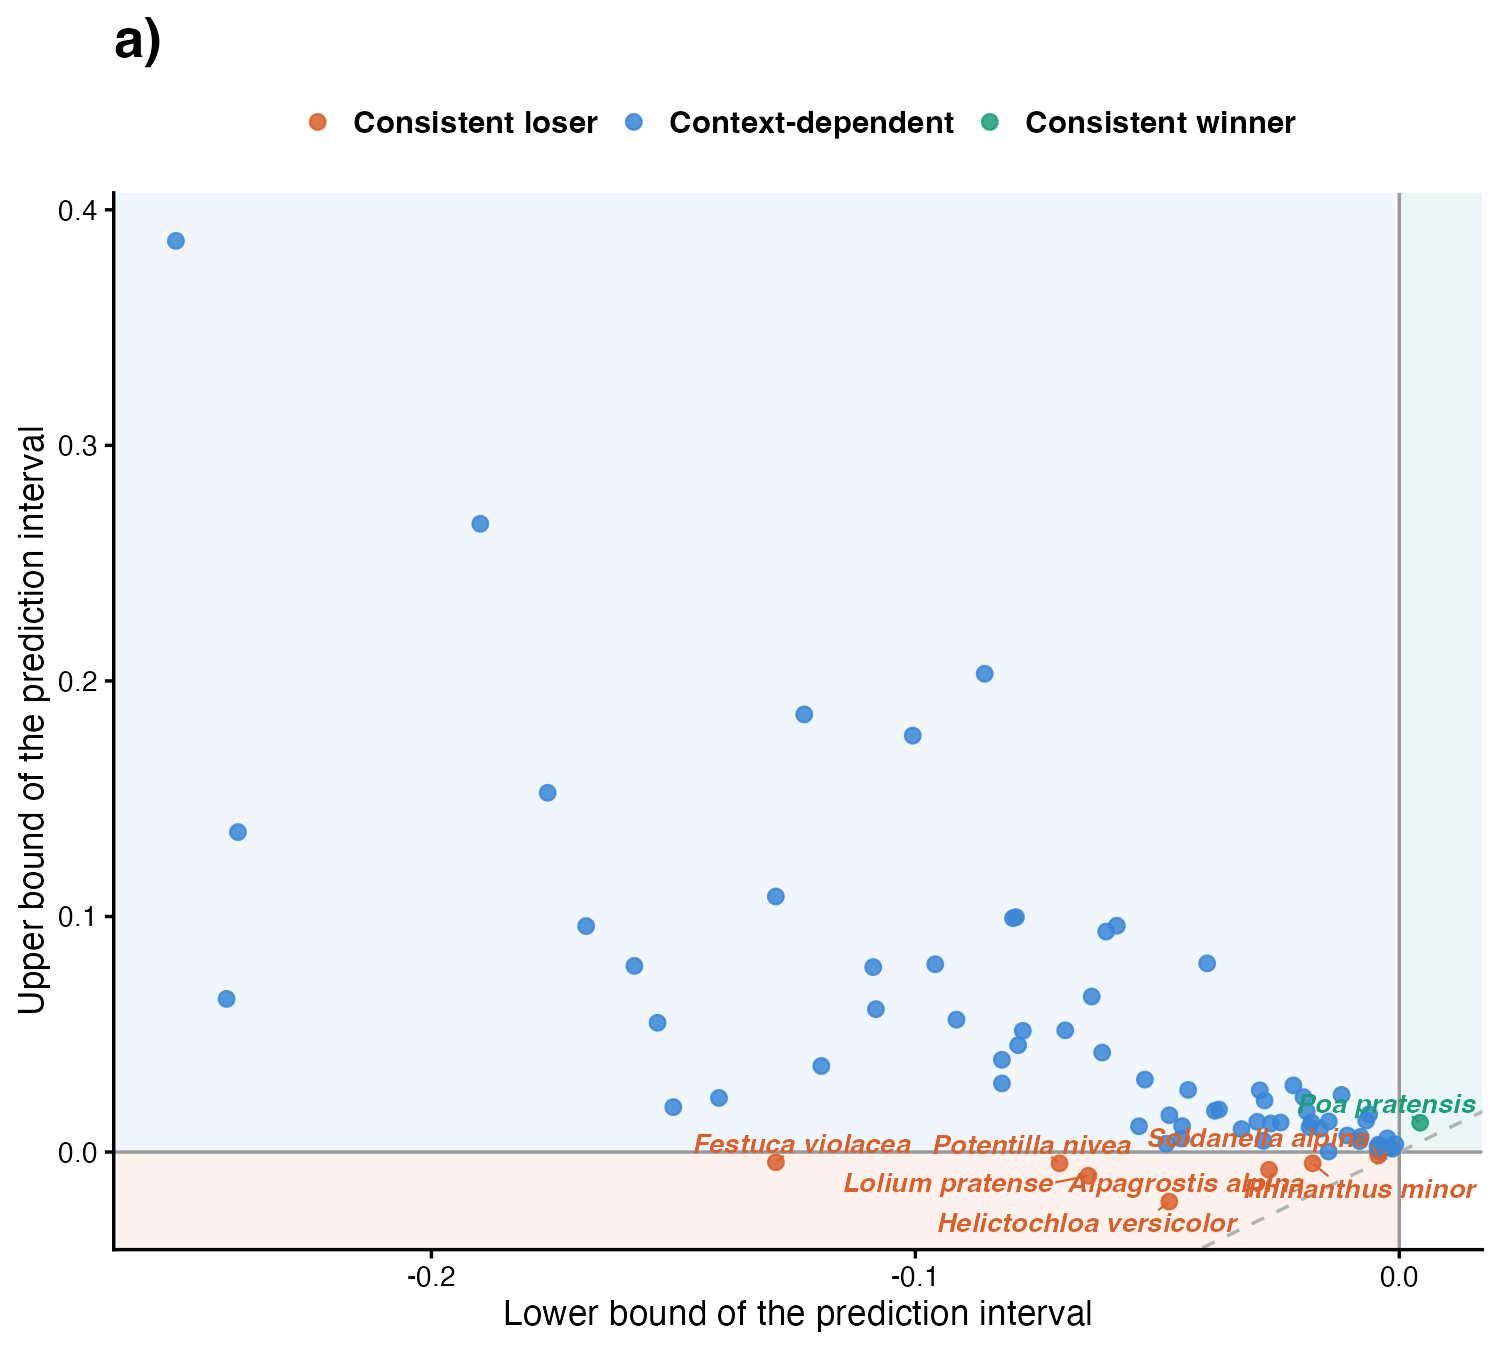
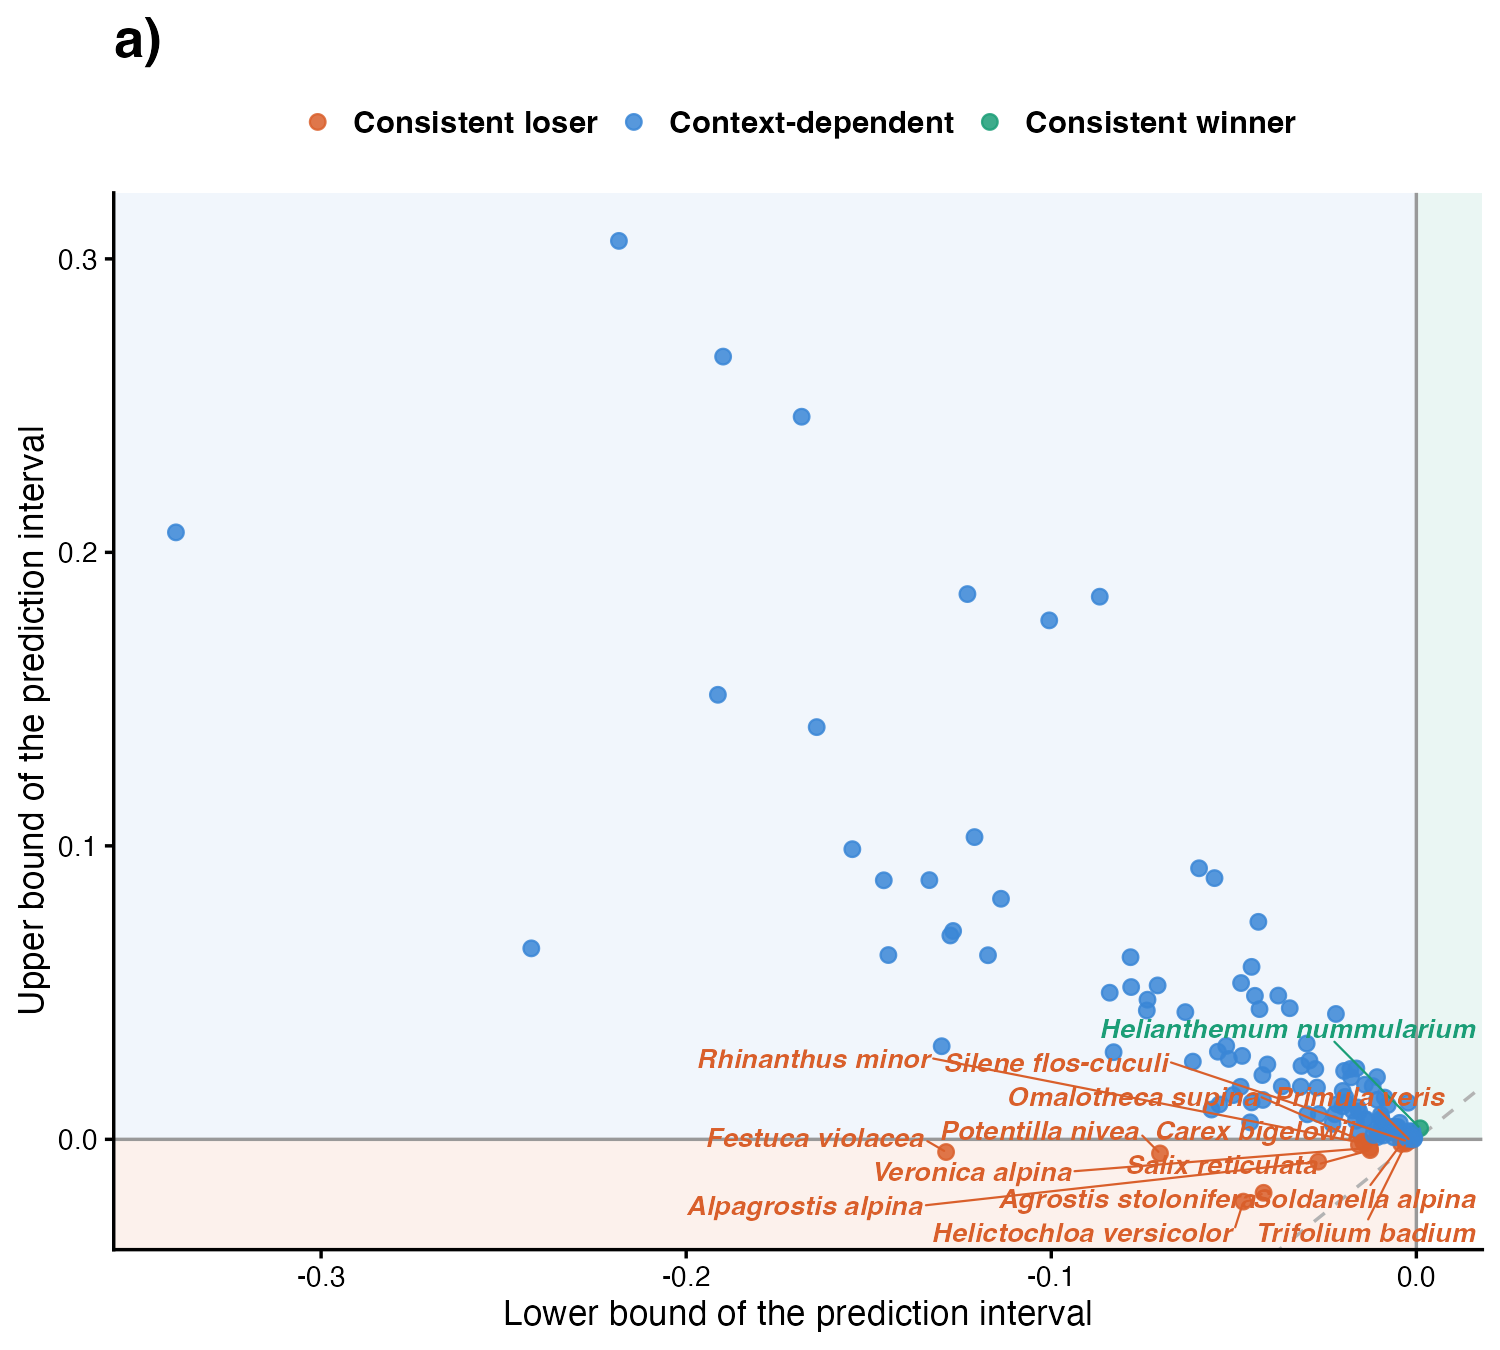
step 04: original pools (137 species, 998 effects): 14 consistent losers, 1 winner, 122 context-dependent; the Step C model fitted as one rma.mv per species (same REML likelihood, seconds); all-years sensitivity dropped (Bills)

diff --git a/reports/04_classification.md b/reports/04_classification.md
@@ -1,13 +1,15 @@
 # Step 04: Consistency across experiments (Step C, residents)
 
-For the 77 resident species found in at least four experiments (552 effects in 39 experiments), one `rma.mv` estimated a pooled losing-winning strength per species and a species-specific among-experiment variance, on the strength from year 3 (step 03b). Each species' prediction interval for a new experiment, which carries both its among-experiment variance and the uncertainty of its pooled strength, places it as a consistent winner (interval above zero), a consistent loser (below zero) or context-dependent (spanning zero). The same model on step 02's all-years strength is the sensitivity run.
+For the 137 resident species found in at least four experiments (998 effects in 43 experiments), one `rma.mv` estimated a pooled losing-winning strength per species and a species-specific among-experiment variance, on the strength from year 3 (step 03b). Each species' prediction interval for a new experiment, which carries both its among-experiment variance and the uncertainty of its pooled strength, places it as a consistent winner (interval above zero), a consistent loser (below zero) or context-dependent (spanning zero).
 
 ## Model as fitted (for reviewers)
 
 ```r
-m_C <- rma.mv(yi = strength, V = strength_se^2, mods = ~0 + species, data = d, random = ~species | effect_id, struct = "DIAG", method = "REML", sparse = TRUE)
-# d: eligible species (>= 4 experiments); mods = ~ 0 + species, random = ~ species | effect_id, struct = "DIAG"
-p <- predict(m_C, newmods = diag(n_species), tau2.levels = species)
+# the model: one fixed mean and one among-experiment variance per species
+# rma.mv(strength, strength_se^2, mods = ~ 0 + species, random = ~ species | effect_id, struct = "DIAG")
+# fitted as one rma.mv per species, which maximises the same REML likelihood (no shared parameter):
+m_s <- rma.mv(yi = strength, V = strength_se^2, data = d, random = ~1 | effect_id, method = "REML")   # d = one species' effects
+p <- predict(m_s)
 # lower, upper = p$pi.lb, p$pi.ub = mu_s -/+ 1.96 * sqrt(tau2_s + se(mu_s)^2)
 ```
 
@@ -15,18 +17,18 @@ p <- predict(m_C, newmods = diag(n_species), tau2.levels = species)
 
 | rule | n |
 | --- | --- |
-| effects (step 03b) | 995 |
-| species with >= 4 experiments | 77 |
-| their effects | 552 |
-| experiments they occur in | 39 |
-| species with tau2_s estimated at about 0 (< 1e-8) | 12 |
+| effects (step 03b) | 1,655 |
+| species with >= 4 experiments | 137 |
+| their effects | 998 |
+| experiments they occur in | 43 |
+| species with tau2_s estimated at about 0 (< 1e-8) | 40 |
 
 ## Classes
 
 | class | species |
 | --- | --- |
-| Consistent loser | 7 |
-| Context-dependent | 69 |
+| Consistent loser | 14 |
+| Context-dependent | 122 |
 | Consistent winner | 1 |
 
 Consistent winners and losers:
@@ -35,24 +37,21 @@ Consistent winners and losers:
 | --- | --- | --- | --- | --- | --- | --- | --- |
 | Festuca violacea | Consistent loser | 4 | -0.0666 | 0.0164 | 0.0272 | -0.1288 | -0.0043 |
 | Potentilla nivea | Consistent loser | 4 | -0.0375 | 0.0094 | 0.0138 | -0.0702 | -0.0048 |
-| Lolium pratense | Consistent loser | 7 | -0.0372 | 0.0138 | 0.0000 | -0.0643 | -0.0101 |
-| Helictochloa versicolor | Consistent loser | 5 | -0.0343 | 0.0058 | 0.0034 | -0.0475 | -0.0210 |
-| Alpagrostis alpina | Consistent loser | 4 | -0.0172 | 0.0042 | 0.0027 | -0.0269 | -0.0075 |
-| Rhinanthus minor | Consistent loser | 6 | -0.0113 | 0.0033 | 0.0000 | -0.0179 | -0.0048 |
-| Soldanella alpina | Consistent loser | 5 | -0.0029 | 0.0007 | 0.0000 | -0.0044 | -0.0015 |
-| Poa pratensis | Consistent winner | 15 | 0.0084 | 0.0021 | 0.0000 | 0.0043 | 0.0124 |
+| Helictochloa versicolor | Consistent loser | 5 | -0.0343 | 0.0058 | 0.0033 | -0.0474 | -0.0212 |
+| Agrostis stolonifera | Consistent loser | 5 | -0.0300 | 0.0060 | 0.0000 | -0.0418 | -0.0182 |
+| Alpagrostis alpina | Consistent loser | 4 | -0.0173 | 0.0042 | 0.0026 | -0.0269 | -0.0076 |
+| Carex bigelowii | Consistent loser | 6 | -0.0088 | 0.0035 | 0.0000 | -0.0157 | -0.0018 |
+| Salix reticulata | Consistent loser | 4 | -0.0082 | 0.0023 | 0.0000 | -0.0127 | -0.0037 |
+| Veronica alpina | Consistent loser | 6 | -0.0078 | 0.0025 | 0.0000 | -0.0128 | -0.0029 |
+| Rhinanthus minor | Consistent loser | 7 | -0.0078 | 0.0028 | 0.0018 | -0.0143 | -0.0013 |
+| Omalotheca supina | Consistent loser | 5 | -0.0077 | 0.0029 | 0.0020 | -0.0146 | -0.0008 |
+| Soldanella alpina | Consistent loser | 5 | -0.0028 | 0.0007 | 0.0000 | -0.0041 | -0.0015 |
+| Trifolium badium | Consistent loser | 4 | -0.0022 | 0.0004 | 0.0000 | -0.0029 | -0.0014 |
+| Silene flos-cuculi | Consistent loser | 5 | -0.0016 | 0.0005 | 0.0000 | -0.0026 | -0.0006 |
+| Primula veris | Consistent loser | 6 | -0.0011 | 0.0003 | 0.0000 | -0.0017 | -0.0004 |
+| Helianthemum nummularium | Consistent winner | 5 | 0.0024 | 0.0007 | 0.0000 | 0.0010 | 0.0038 |
 
-Species with tau2_s at about zero (their interval is the uncertainty of the mean alone): Campanula rotundifolia, Carex myosuroides, Cerastium fontanum, Deschampsia cespitosa, Euphrasia minima, Lolium pratense, Poa pratensis, Ranunculus brotherusii, Rhinanthus minor, Soldanella alpina, Veronica alpina, Veronica fruticans.
-
-## Sensitivity: all-years strength (step 02)
-
-Rows: class on the strength from year 3 (main); columns: class on the all-years strength.
-
-| years >= 3 (main) | Consistent loser | Context-dependent | Consistent winner |
-| --- | --- | --- | --- |
-| Consistent loser | 5 | 2 | 0 |
-| Context-dependent | 3 | 66 | 0 |
-| Consistent winner | 0 | 0 | 1 |
+Species with tau2_s at about zero (their interval is the uncertainty of the mean alone): Agrostis stolonifera, Alchemilla conjuncta, Alopecurus pratensis, Androsace septentrionalis, Bartsia alpina, Campanula rotundifolia, Carex bigelowii, Carex myosuroides, Carex norvegica, Centaurea jacea, Cerastium fontanum, Dactylorhiza viridis, Empetrum nigrum, Euphrasia minima, Festuca halleri, Fragaria virginiana, Gentiana nivalis, Gentianella campestris, Helianthemum nummularium, Hieracium alpinum, Kalmia procumbens, Leucanthemum ircutianum, Luzula spicata, Oreojuncus trifidus, Phleum alpinum, Pinguicula vulgaris, Primula veris, Prunella vulgaris, Ranunculus brotherusii, Rumex acetosa, Salix reticulata, Silene dioica, Silene flos-cuculi, Soldanella alpina, Thesium alpinum, Trifolium badium, Vaccinium uliginosum, Veronica alpina, Vicia cracca, Viola riviniana.
 
 ## Figures (drafts)
 
@@ -64,8 +63,8 @@ Fig 2 corner panels follow once four species are named (MILESTONES).
 
 ## Warnings captured
 
-None.
+- Refitted with the bobyqa optimizer after nlminb did not declare convergence (tau2_s at 0): Bartsia alpina.
 
 ## Deviations from PLAN.md
 
-None: PLAN.md Step C was revised on 30 Oct (Bills) to fixed species means with predict() intervals. Decisions approved with the plan: se_mu added to species_summary; the all-years sensitivity run here; draft figures in figures/diagnostics/ rather than data/derived/04_classification/.
+None: PLAN.md Step C was revised on 30 Oct (Bills) to fixed species means with predict() intervals. Decisions approved with the plan: se_mu added to species_summary; draft figures in figures/diagnostics/ rather than data/derived/04_classification/.
